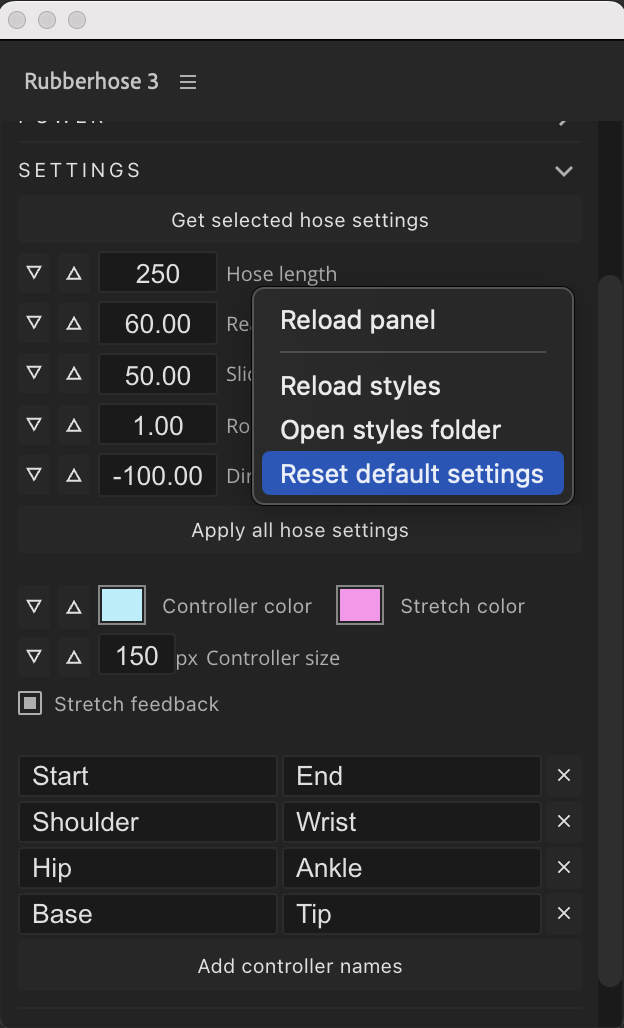
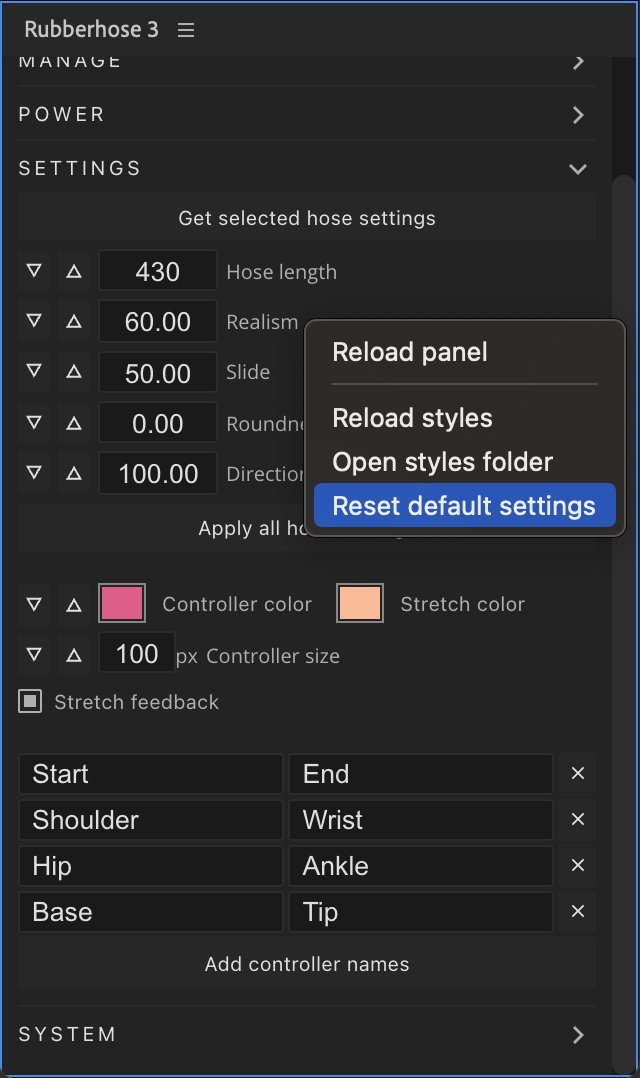
Add videos

diff --git a/docs/rubberhose3/style.md b/docs/rubberhose3/style.md
@@ -5,3 +5,202 @@ title: Style
 
 # Hose styling - WIP
 
+<Video url="https://www.youtube.com/embed/wTumec0YZzk" />
+
+
+## Preset library
+
+<Screenshot 
+    url="/timelord/DurationRoll.gif" 
+    alt="Frame duration" 
+    width="540px"
+    center />
+
+
+Modeled after the **Effects & Presets** panel in Ae, the Preset library displays all installed presets. Presets are simply `.ffx` files and can belong to 2 types that live together in the preset library:
+
+<Screenshot
+    url="/rubberhose3/icon/style-icon.svg"
+    alt="Style preset"
+    toolbar
+    width="30px" />
+
+### Style presets 
+
+How a hose looks
+
+<Screenshot
+    url="/rubberhose3/icon/bend-icon.svg"
+    alt="Bend preset"
+    toolbar
+    width="30px" />
+
+### Bend presets
+
+How a hose bends
+
+<br/>
+
+
+### What is a Style preset?
+
+Hoses are built on shape layers and a style preset is a combination of:
+
+- Various shape layer elements (strokes, fills, trims, ellipses, etc)
+- Layer styles
+- Effects
+
+Styles are used to change the appearance of a hose layer from a bendy line to something custom. A collection of styles are included with Rubberhose 3, and new styles may be installed and shared.
+
+### What is a Bend preset?
+
+The way a hose bends is defined by the [Hose controls](build.html#hose-controls). A Bend preset is a collection of pseudo effects and values that quickly shape how a hose bends. These presets do not affect the visual appearance (color, thickness, etc) of a hose, may apply:
+
+- The number of bends
+- Their roundness
+- Parametric animation of bends
+- Additional expression controls
+
+Bend presets *do not* adjust the Hose length or Realism values
+
+
+## Included presets
+
+<ImageGrid :tiles="[
+    {
+        name: 'Tapered hose',
+        text: 'The most requested feature in RubberHose history. The Tapered Hose is the simple way to add shape variety to arms and legs. The fat end may be shifted by to the opposite end with a negative value in Taper %.',
+        url:'/rubberhose2/styles-taper.png'
+    },
+    {
+        name: 'Basic hose',
+        text: 'Standard hose that is created by default. Sometimes you need to reset everything.',
+        url: '/rubberhose2/styles-basic.png'
+    },
+    {
+        name: 'Edge highlight',
+        text: 'Highlight created with an Offset Paths, Trim Paths, and Dashed Stroke. Highlight dashes may be customized.',
+        url: '/rubberhose2/styles-edge.png'
+    },
+    {
+        name: 'Finger nail',
+        text: 'Tap on those rectangle devices without any extra layers. Adjust the location of the fingernail and it follows the animation. Nail and finger colors are changed with the hose Fill as Stroke colors.',
+        url: '/rubberhose2/styles-fingernail.png'
+    },
+    {
+        name: 'Gradient',
+        text: 'Simple gradient, complex gradient, that\'s up to you. The age of the single color hose is over thanks to the almighty Kyle Martinez. The ends of a gradient track to the controller points and colors may be added as needed. ',
+        url: '/rubberhose2/styles-gradient.png'
+    },
+    {
+        name: 'Popeye',
+        text: 'For you youngsters who do not know, Popeye was this super strong dude who got hype on some spinach and had weird looking arms. This one is named after him. Inspired by cool stuff from Simon Tibbs.',
+        url: '/rubberhose2/styles-popeye.png'
+    },
+    {
+        name: 'Flat / round',
+        text: 'Single layer hoses must be either Round or Flat ended. Sometimes you need pants or shorts and now that\'s easy. Remember, styles can be layered by holding ALT and clicking Apply.',
+        url: '/rubberhose2/styles-flat-round.png'
+    },
+    {
+        name: 'Round / flat',
+        text: 'The exact same as Round-Start Flat-End, but in reverse',
+        url: '/rubberhose2/styles-round-flat.png'
+    },
+    {
+        name: 'Tight pants',
+        text: 'Based on the Tapered Hose style with some extra controls to create a layered pants effect. The length of the pants can be shortened to create shorts.',
+        url: '/rubberhose2/styles-tight-pants.png'
+    },
+    {
+        name: 'Track suit',
+        text: 'Break it up, break it up, break it up, break down.',
+        url: '/rubberhose2/styles-tracksuit.png'
+    },
+    {
+        name: 'TwoTone',
+        text: 'Simple hose shape with additional color styling. The color variation is created by two layers of the same color and a Color Dodge blend mode. Manual adjustment is all you chief.',
+        url: '/rubberhose2/styles-twotone.png'
+    },
+    {
+        name: 'TwoTone dash',
+        text: 'Stylistic alternate of TwoTone.',
+        url: '/rubberhose2/styles-twotone-dash.png'
+    },
+    ]" />
+
+
+<Screenshot
+    url="/rubberhose3/icon/save-style.svg"
+    alt="Save style"
+    toolbar />
+
+## Save preset
+
+Reusing a carefully designed style or bend preset is an effective way to speed up future work.
+
+Select a hose and click **Save Preset**. A **Save Animation Preset as:** dialog will open. Select where to save. You will probably see a warning like this informing you that you are saving a preset outside of the Ae presets folder. That's exactly what we are doing.
+
+<Screenshot
+    url="/timelord/DurationRoll.gif"
+    alt="Frame duration"
+    width="540px"
+    center />
+
+
+We recommend saving to the `/Rubberhose 3` Presets folder but feel free to save it somewhere else if you want to share the preset.
+
+The Presets will reload automatically and any new files will now be visible in the presets library.
+
+<Screenshot
+    url="/rubberhose3/icon/copy-style.svg"
+    alt="Copy style"
+    toolbar />
+
+## Copy style
+
+If you make small changes to a style but not enough to save as a new preset file. Use copy/paste to quickly apply styles between legs, arms and other characters.
+
+Select a hose and click **Copy style**. The **Paste style** button will light up with the name of the style.
+
+<Screenshot
+    url="/rubberhose3/icon/paste-style.svg"
+    alt="Paste style"
+    toolbar />
+
+## Paste style
+
+Once a style is copied into the Rubberhose 3 style clipboard it will be available to paste onto additional hoses. This clipboard is discrete from the Adobe or system clipboard and will not be overwritten.
+
+Closing and reopening the panel, or right-click > Reload panel will clear this style clipboard.
+
+## Installing presets
+
+Additional style and bend presets may be installed by pasting `.ffx` files in the presets folder on disk, then **Reload Styles** or reopen the Rubberhose 3 panel.
+
+Locate the presets folder by right clicking the panel > **Open styles folder.**
+
+- **Win**: `C:\Program Files (x86)\Common Files\BattleAxe\Rubberhose3\styles\`
+- **Mac**: `/Users/**username**/Library/Application Support/BattleAxe/Rubberhose3/styles/`
+  - Open the `/Library/` folder by switching to Finder and opening the top **Go** menu. Hold the **Option** key and **Library** will appear.
+
+
+### Organizing presets
+
+<Screenshot
+    url="/timelord/DurationRoll.gif"
+    alt="Frame duration"
+    width="540px"
+    center />
+
+Preset files and folders within the library folder are organized alphabetically. Changes to the files and folders in the library will be reflected after `right-click > Reload Styles`.
+
+::: tip Overwriting the default hose
+
+When a new hose is created it will apply the **Rubberhose 3/Basic hose.ffx** style preset. So if you have a style you would like to use as default, save it and overwrite this **Basic Hose** file.
+:::
+
+### Resetting the included styles
+
+The included styles live in the **Rubberhose 3** folder. To reset the included styles simply delete this folder and right click the panel > Reload styles. The included styles will be rebuilt.
+

diff --git a/docs/rubberhose3/manage.md b/docs/rubberhose3/manage.md
@@ -5,7 +5,7 @@ sidebarDepth: 1
 
 # Managing rigs
 
-<Video url="https://www.youtube.com/embed/rNkUD5dboJs" />
+<Video url="https://www.youtube.com/embed/UXXKYM7ypig" />
 
 <Screenshot
     url="/rubberhose3/icon/duplicate.svg"
@@ -74,6 +74,11 @@ But for a more organized approach to layer naming this button allows for batch r
 
 ## Add bend
 
+<Video url="https://www.youtube.com/embed/Yo_Lcyx29Xk" />
+
+
+Multi-bends are a major improvement in version 3 and flexibility is the core Rubberhose ethos. Duplicating one of the RH Bend pseudo effects will add a new bend point, but it will be at the same position as the original. To add bends with more visual feedback use this button.
+
 <Screenshot
     url="/rubberhose3/manage-add-bend.mp4"
     alt="Add bend"
@@ -81,8 +86,6 @@ But for a more organized approach to layer naming this button allows for batch r
     outline
     round
     center />
-
-Multi-bends are a major improvement in version 3 and flexibility is the core Rubberhose ethos. Duplicating one of the RH Bend pseudo effects will add a new bend point, but it will be at the same position as the original. To add bends with more visual feedback use this button.
 
 1. Select a hose
 2. Click
@@ -109,7 +112,7 @@ If there is a bend at 50%, holding SHIFT will create a new bend at 75% (half the
 
 ## Parent to hose
 
-<Video url="https://www.youtube.com/embed/rNkUD5dboJs" />
+<Video url="https://www.youtube.com/embed/IiqgRB6Taqc" />
 
 New in version 3, Parent to hose allows any layer to be attached to any part of a hose. This is a powerful way to add elements like watches and jewelry that are too complex to be built from shape layer operators.
 
@@ -175,6 +178,7 @@ It’s gone. Hose parenting has increased accuracy and renders faster. You can s
 
 ## Add bones
 
+
 <Screenshot
     url="/rubberhose3/manage-add-bones.mp4"
     alt="Add bones"
@@ -188,6 +192,8 @@ It’s gone. Hose parenting has increased accuracy and renders faster. You can s
 3. Bone layers will be added between the controllers and bend points
 
 ### What are bones?
+
+<Video url="https://www.youtube.com/embed/dcCS2vPYA-c" />
 
 Bones are invisible layers (guide layers that do not render) that move and stretch between bend points. They are used as parents for additional art layers (something too complicated or irregular shaped to be created with a hose style).
 

diff --git a/docs/rubberhose3/settings.md b/docs/rubberhose3/settings.md
@@ -5,7 +5,17 @@ sidebarDepth: 1
 
 # Hose / controller settings
 
-<Video url="https://www.youtube.com/embed/rNkUD5dboJs" />
+<Video url="https://www.youtube.com/embed/yjb2FXzLuNQ" />
+
+
+<Screenshot
+    url="/rubberhose3/settings-panel.png"
+    alt="Reset settings"
+    width="312px"
+    outline
+    round
+    left
+ />
 
 Every new hose will use the values in the **Settings** group to define the:
 
@@ -19,6 +29,7 @@ Every new hose will use the values in the **Settings** group to define the:
 - Controller stretch feedback
 - Controller pair naming options
 
+<br/>
 
 ### Get/apply settings
 

diff --git a/docs/rubberhose3/power.md b/docs/rubberhose3/power.md
@@ -5,7 +5,7 @@ sidebarDepth: 1
 
 # Powering up rigs
 
-<Video url="https://www.youtube.com/embed/rNkUD5dboJs" />
+<Video url="https://www.youtube.com/embed/sQDPZDoKzBg" />
 
 The Essential Graphics Panel (EGP) is a powerful system inside of After Effects that allows properties inside of a precomp to become available in the parent comp. Precomps have always been reusable, but now these Essential Properties may act as overrides to existing values (colors, text, transforms, etc). If you have never explored EGP check out [this video](https://www.youtube.com/watch?v=Ku9LCNAV2pg).
 

diff --git a/docs/rubberhose3/build.md b/docs/rubberhose3/build.md
@@ -5,7 +5,7 @@ sidebarDepth: 1
 
 # Building hoses
 
-<Video url="https://www.youtube.com/embed/rNkUD5dboJs" />
+<Video url="https://www.youtube.com/embed/SvIlCRiriuc" />
 
 
 <Screenshot
